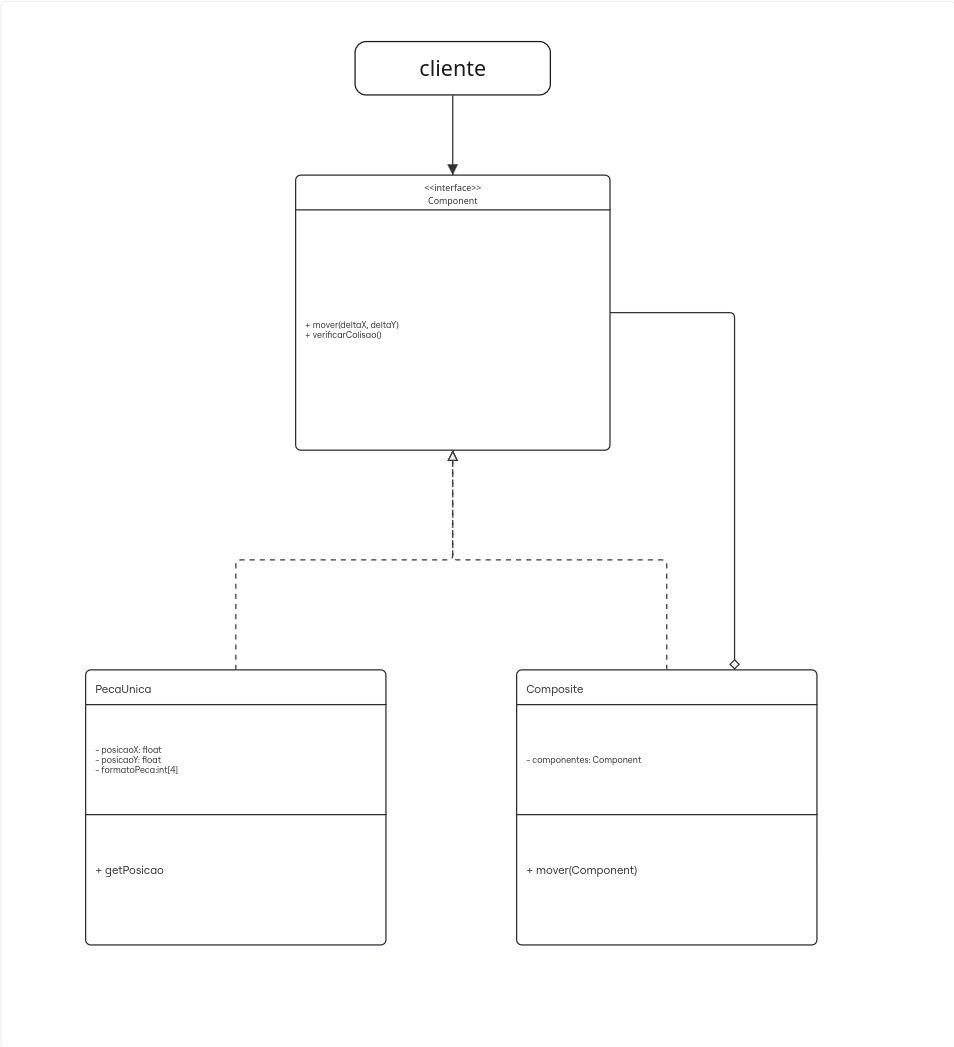
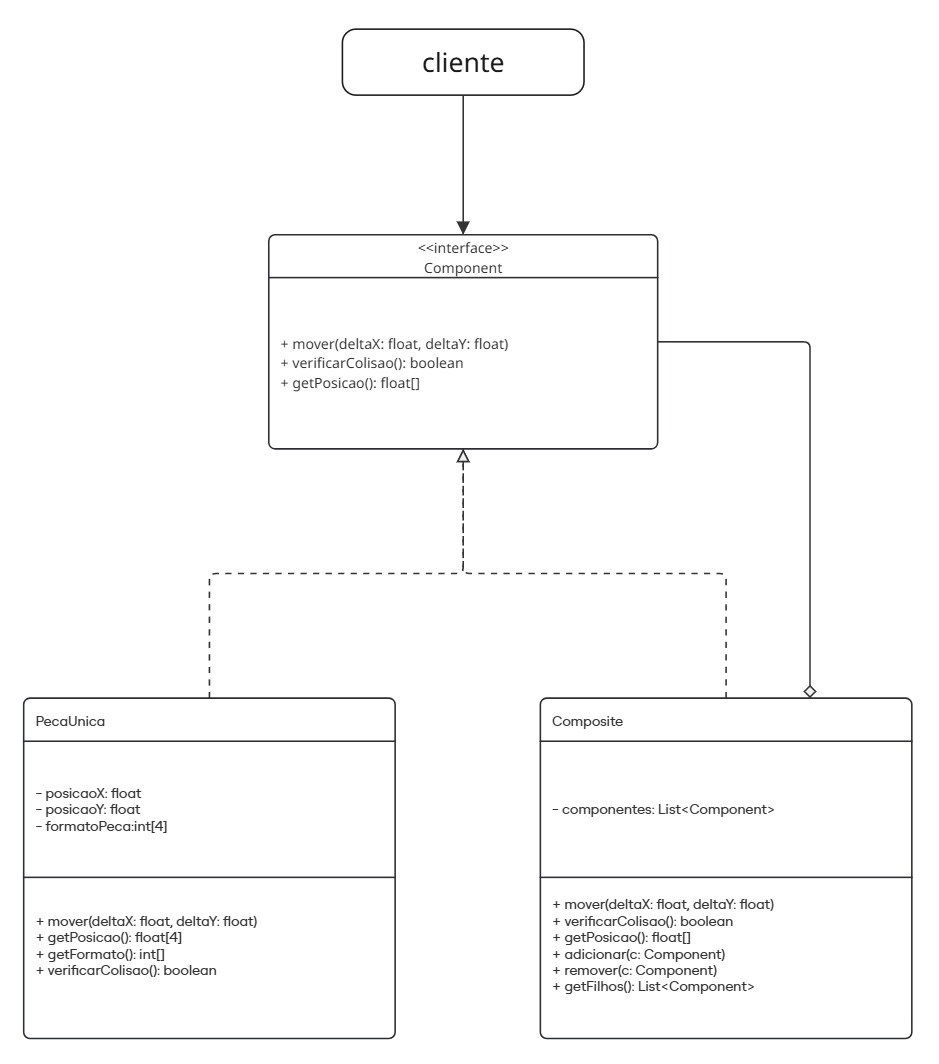
Atualiza diagramas dos padrões de projeto com novas versões e correções; substitui imagens por embeds do Miro.

diff --git a/docs/PadroesDeProjeto/3.3.GoFsComportamentais.md b/docs/PadroesDeProjeto/3.3.GoFsComportamentais.md
@@ -1,14 +1,20 @@
 # 3.3.GOF Comportamental
 
-## 3.3.1.Diagrama Composite
+## 3.3.1.Diagrama Comportamental
 
-![Construção inicial do diagrama do padrão composite](./assets/Strategy.jpg)
+<iframe width="768" height="432" src="https://miro.com/app/live-embed/uXjVGnju0LM=/?embedMode=view_only_without_ui&moveToViewport=2533,8094,2889,1373&embedId=998370953026" frameborder="0" scrolling="no" allow="fullscreen; clipboard-read; clipboard-write" allowfullscreen></iframe>
+
+<p align="center">
+    <img src="./assets/Strategy.jpg" width="100%">
+    <figcaption>Diagrama de padrão builder. Autores: Integrantes do grupo</figcaption>
+</p>
+
 
 ## 3.3.2.Metodologia
 
 Para a elaboração desse diagrama, foi utilizado a ferramente online Miro. As referências principais para a elaboração do diagrama foram os slides do conteúdo disponibilizado pela profª Serrano e o site refactoring guru. 
 
-A construção inicial desse diagrama ficou encarrada ao [Lucas Ricarte](https://github.com/Lucas-Ricarte).
+A construção inicial desse diagrama ficou encarrada ao [Lucas Ricarte](https://github.com/Lucas-Ricarte) e iremos aperfeiçoar com os demais componetes do grupo durante o desenvolvimento da entrega..
 
 ## 3.3.3.Justificativa
 
@@ -18,6 +24,8 @@ A escolha do GOF comportamental strategy se deu por conta da feature de escolha 
 
 * **Lucas**: inicialmente elaborei o diagrama com o intuito de mostrar a minha ideia em relação ao GOF estrutural, justificando a escolha do padrão builder, com o intuito de levantar discussões com os membros da equipe.
 
+* **João**: Após elaboração do diagrama pelo colega, quis verificar os tópicos referentes à criação e fazer as devidas correções com relação a relacionamentos e nomenclaturas.
+
 ## Referências bibliográficas
 
 * Explicação e exemplo da elaboração do GOF: Disponível em https://refactoring.guru/pt-br/design-patterns/strategy
@@ -26,4 +34,5 @@ A escolha do GOF comportamental strategy se deu por conta da feature de escolha 
 
 | Data | Alterações | Autores |
 | ---- | ---------- | ------- |
-| 15/05/2026 | Primeira versão do diagrama strategy | Lucas |
+| 15/05/2026 | Primeira versão do diagrama strategy   | Lucas        |
+| 17/05/2026 | Segunda versão com correções e ajustes | João Eduardo |  

diff --git a/docs/PadroesDeProjeto/3.2.GoFsEstruturais.md b/docs/PadroesDeProjeto/3.2.GoFsEstruturais.md
@@ -2,13 +2,18 @@
 
 ## 3.2.1.Diagrama Composite
 
-![Construção inicial do diagrama do padrão composite](./assets/Composite.jpg)
+<iframe width="768" height="432" src="https://miro.com/app/live-embed/uXjVGnju0LM=/?embedMode=view_only_without_ui&moveToViewport=109,8115,1547,1507&embedId=41694835500" frameborder="0" scrolling="no" allow="fullscreen; clipboard-read; clipboard-write" allowfullscreen></iframe>
+
+<p align="center">
+    <img src="./assets/Composite.jpg" width="100%">
+    <figcaption>Diagrama de padrão builder. Autores: Integrantes do grupo</figcaption>
+</p>
 
 ## 3.2.2.Metodologia
 
 Para a elaboração desse diagrama, foi utilizado a ferramente online Miro. As referências principais para a elaboração do diagrama foram os slides do conteúdo disponibilizado pela profª Serrano e o site refactoring guru. 
 
-A construção inicial desse diagrama ficou encarrada ao [Lucas Ricarte](https://github.com/Lucas-Ricarte).
+A construção inicial desse diagrama ficou encarrada ao [Lucas Ricarte](https://github.com/Lucas-Ricarte) e iremos aperfeiçoar com os demais componetes do grupo durante o desenvolvimento da entrega.
 
 ## 3.2.3.Justificativa
 
@@ -16,7 +21,9 @@ O GOF estrutural composite foi importante para decidirmos como seria implementad
 
 ## 3.2.4.Visão do contribuidor na concepção do diagrama
 
-* **Lucas**: inicialmente elaborei o diagrama com o intuito de mostrar a minha ideia em relação ao GOF estrutural, justificando a escolha do padrão builder, com o intuito de levantar discussões com os membros da equipe.
+* **Lucas**: inicialmente elaborei o diagrama com o intuito de mostrar a minha ideia em relação ao GOF estrutural, justificando a escolha do padrão composite, com o intuito de levantar discussões com os membros da equipe.
+
+* **João**: Após elaboração do diagrama pelo colega, quis verificar os tópicos referentes à criação e fazer as devidas correções com relação a relacionamentos e nomenclaturas.
 
 ## Referências bibliográficas
 
@@ -26,4 +33,5 @@ O GOF estrutural composite foi importante para decidirmos como seria implementad
 
 | Data | Alterações | Autores |
 | ---- | ---------- | ------- |
-| 15/05/2026 | Primeira versão do diagrama composite | Lucas |
+| 15/05/2026 | Primeira versão do diagrama composite  | Lucas        |
+| 17/05/2026 | Segunda versão com correções e ajustes | João Eduardo |  

diff --git a/docs/PadroesDeProjeto/3.1.GoFsCriacionais.md b/docs/PadroesDeProjeto/3.1.GoFsCriacionais.md
@@ -2,13 +2,19 @@
 
 ## 3.1.1.Diagrama Builder
 
-![Construção inicial do diagrama do padrão builder](./assets/Builder.jpg)
+<iframe width="768" height="432" src="https://miro.com/app/live-embed/uXjVGnju0LM=/?embedMode=view_only_without_ui&moveToViewport=1260,5395,2143,2001&embedId=492779134473" frameborder="0" scrolling="no" allow="fullscreen; clipboard-read; clipboard-write" allowfullscreen></iframe>
+
+<p align="center">
+    <img src="./assets/Builder.jpg" width="100%">
+    <figcaption>Diagrama de padrão builder. Autores: Integrantes do grupo</figcaption>
+</p>
+
 
 ## 3.1.2.Metodologia
 
 Para a elaboração desse diagrama, foi utilizado a ferramente online Miro. As referências principais para a elaboração do diagrama foram os slides do conteúdo disponibilizado pela profª Serrano e o site refactoring guru. 
 
-A construção inicial desse diagrama ficou encarrada ao [Lucas Ricarte](https://github.com/Lucas-Ricarte).
+A construção inicial desse diagrama ficou encarregada ao [Lucas Ricarte](https://github.com/Lucas-Ricarte) e iremos aperfeiçoar com os demais componetes do grupo durante o desenvolvimento da entrega.
 
 ## 3.1.3.Justificativa
 
@@ -18,6 +24,8 @@ A escolha do GOF criacional builder se deu por conta da feature de dificuldade d
 
 * **Lucas**: inicialmente elaborei o diagrama com o intuito de mostrar a minha ideia em relação ao GOF estrutural, justificando a escolha do padrão builder, com o intuito de levantar discussões com os membros da equipe.
 
+* **João**: Após elaboração do diagrama pelo colega, quis verificar os tópicos referentes à criação e fazer as devidas correções com relação a relacionamentos e nomenclaturas.
+
 ## Referências bibliográficas
 
 * Explicação e exemplo da elaboração do GOF: Disponível em https://refactoring.guru/pt-br/design-patterns/builder
@@ -26,4 +34,5 @@ A escolha do GOF criacional builder se deu por conta da feature de dificuldade d
 
 | Data | Alterações | Autores |
 | ---- | ---------- | ------- |
-| 15/05/2026 | Primeira versão do diagrama builder | Lucas |
+| 15/05/2026 | Primeira versão do diagrama builder    | Lucas        |
+| 17/05/2026 | Segunda versão com correções e ajustes | João Eduardo |  